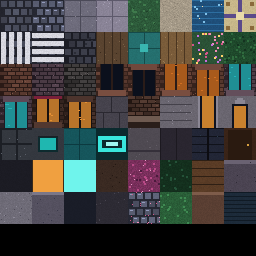
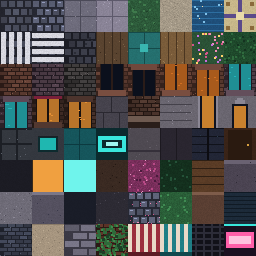
CITY: look pass: facade materials and dressing, lit grand plaza, City-only props

Changed region(s): [[0.0, 0.875, 1.0, 1.0]]

diff --git a/tools/city/make_city_atlas.py b/tools/city/make_city_atlas.py
@@ -322,6 +322,47 @@ def make(name, index):
         t.fill(c("#1d2b3a"), .08)
         for y in range(0, T, 4):
             t.rect(0, y, T, y + 1, c("#101a24"))
+    elif name == "brick_dark":
+        brick(t, c("#3d4252"), c("#1f222c"), c("#565c70"))
+    elif name == "stucco":
+        t.fill(c("#a6957f"), .09)
+        t.dots(22, c("#8a7b68"))
+        t.dots(10, c("#bfae96"))
+        t.rect(0, 0, T, 1, c("#8a7b68"))
+    elif name == "ashlar":
+        t.fill(c("#3b3945"), .06)
+        for row in range(4):
+            offset = 8 if row % 2 else 0
+            for col in range(3):
+                x0 = (col * 16 + offset) % T
+                y0 = row * 8
+                t.rect(x0 + 1, y0 + 1, min(T, x0 + 15), y0 + 7, shade(c("#6d6a7a"), .85 + t.rng.random() * .3), jitter=.05)
+    elif name == "ivy":
+        brick(t, c("#5a3328"), c("#2a1a14"), c("#7a4a3c"))
+        t.dots(70, c("#2f6a3a"), 3)
+        t.dots(45, c("#3f8a4c"), 2)
+        t.dots(18, c("#1c4026"), 3)
+    elif name == "awning_red":
+        t.fill(c("#9c2f3e"), .05)
+        for x in range(0, T, 8):
+            t.rect(x, 0, x + 4, T, c("#e9d9c8"))
+        t.rect(0, 28, T, T, c("#5c1a24"))
+    elif name == "awning_teal":
+        t.fill(c("#1f7f86"), .05)
+        for x in range(0, T, 8):
+            t.rect(x, 0, x + 4, T, c("#e9d9c8"))
+        t.rect(0, 28, T, T, c("#10484d"))
+    elif name == "fire_escape":
+        t.fill(c("#111118"))
+        for y in range(2, T, 6):
+            t.rect(0, y, T, y + 2, c("#2c2c38"))
+        for x in range(3, T, 8):
+            t.rect(x, 0, x + 2, T, c("#2c2c38"))
+    elif name == "neon_sign":
+        t.fill(c("#1a1020"))
+        t.rect(2, 8, T - 2, 24, c("#ff5fa8"), emit=c("#ff5fa8"))
+        t.rect(5, 12, T - 5, 20, c("#ffc2de"), emit=c("#ffc2de"))
+        t.rect(0, 0, T, 2, c("#39e6dc"), emit=cyan)
     else:
         t.fill(c("#ff00ff"))
     return t

diff --git a/docs/CITY_PROJECT.md b/docs/CITY_PROJECT.md
@@ -203,3 +203,13 @@ open cell, so they now also land inside buildings. Not done: two-floor buildings
 stay the underground-style refuge).
 
 ![the dome gate](city_gate.png) ![library](city_interior_library.png) ![two rooms](city_interior_two_rooms.png) ![chapel](city_interior_chapel.png)
+
+## Look pass (pass 2)
+
+Atlas now 64 tiles (brick_dark, stucco, ashlar, ivy, two awnings, fire_escape, neon_sign). `CityFacadeDetails` gives every brick
+building one of six wall materials (brick mix, dark brick, stucco, ashlar, ivy on the lower floors) plus, by building kind:
+striped awnings and neon signs on shops and cafes, balconies on apartments, fire escapes, drainpipes and rooftop chimneys,
+and a stone threshold in every doorway. All of it hangs above head height or is a thin pipe, so collision and nav are
+unchanged. `CityProps` (new file) holds City-only street furniture: plaza lights, banners, market stalls, newsstands, phone
+booths and hydrants; the grand plaza now has 13 cyan lights, banners and a stall row. Shots: `city_look_street.png`,
+`city_look_plaza.png`.
